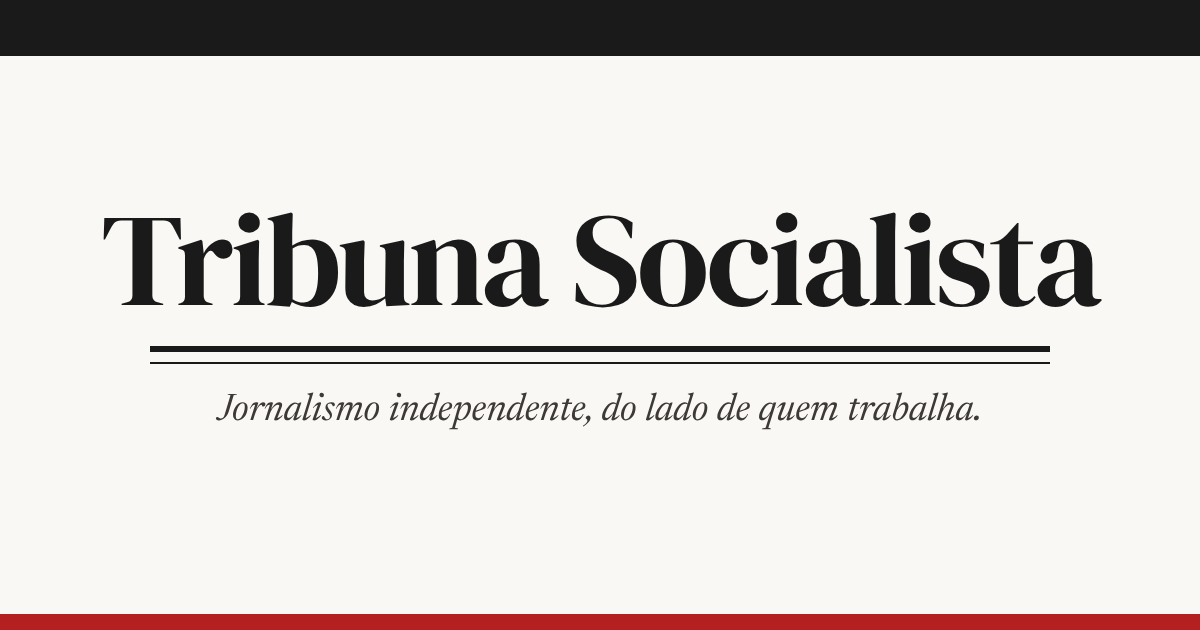
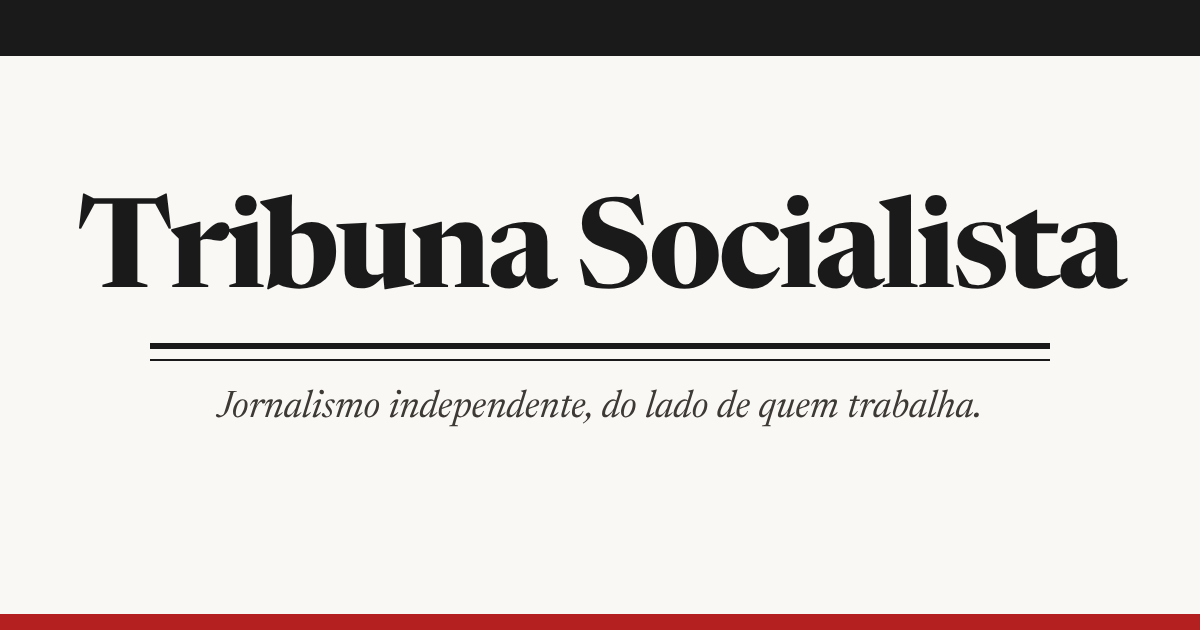
Remove o RSS, simplifica a tarja superior e troca a fonte de destaque
- Remove o feed RSS (/rss.xml) e o link no rodapé.
- Tarja superior: tira os atalhos Newsletter, Colunistas e Sobre e deixa
  só a data, centralizada (o alternador de tema continua à direita).
- Troca a DM Serif Display pela Newsreader em todo o site (logotipo,
  títulos de seção, citações, capitular e imagem de compartilhamento).
  O site passa a usar só duas famílias: Newsreader e Inter Tight.

Claude-Session: https://claude.ai/code/session_01ELp6jAinh5GCZGBxmke1wb

Changed region(s): [[0.0617, 0.3016, 0.9558, 0.5127], [0.1233, 0.5429, 0.8942, 0.6937]]

diff --git a/app/layout.tsx b/app/layout.tsx
@@ -6,17 +6,9 @@ import "./globals.css";
 /*
  * Fontes servidas pelo próprio site (next/font/local), sem chamadas ao
  * Google: mais rápido e mais privado para o leitor. Licença: SIL OFL 1.1.
- *  - DM Serif Display: logotipo, manchetes de seção e citações
- *  - Newsreader (variável, com tamanho óptico): títulos e texto longo
+ *  - Newsreader (variável, com tamanho óptico): logotipo, títulos e texto longo
  *  - Inter Tight (variável): interface
  */
-const display = localFont({
-  src: "./fonts/dm-serif-display.woff2",
-  weight: "400",
-  variable: "--font-dm-serif",
-  display: "swap",
-});
-
 const serif = localFont({
   src: [
     { path: "./fonts/newsreader.woff2", weight: "200 800", style: "normal" },
@@ -38,7 +30,6 @@ export const metadata: Metadata = {
   title: { default: SITE_NAME, template: `%s | ${SITE_NAME}` },
   description: SITE_DESCRIPTION,
   applicationName: SITE_NAME,
-  alternates: { types: { "application/rss+xml": [{ url: "/rss.xml", title: SITE_NAME }] } },
   openGraph: {
     type: "website",
     locale: "pt_BR",
@@ -66,7 +57,7 @@ export default function RootLayout({ children }: Readonly<{ children: React.Reac
     <html
       lang="pt-BR"
       suppressHydrationWarning
-      className={`${display.variable} ${serif.variable} ${sans.variable}`}
+      className={`${serif.variable} ${sans.variable}`}
     >
       <head>
         <script dangerouslySetInnerHTML={{ __html: themeScript }} />

diff --git a/app/globals.css b/app/globals.css
@@ -69,7 +69,7 @@
   --color-band-rule: var(--band-rule);
   --color-band-accent: var(--band-accent);
 
-  --font-display: var(--font-dm-serif), Georgia, serif;
+  --font-display: var(--font-newsreader), Georgia, serif;
   --font-serif: var(--font-newsreader), Georgia, serif;
   --font-sans: var(--font-inter-tight), system-ui, sans-serif;
 }
@@ -209,6 +209,7 @@ textarea.input {
 .prose-tribuna.drop-cap > p:first-child::first-letter {
   float: left;
   font-family: var(--font-display);
+  font-weight: 700;
   font-size: 4.6em;
   line-height: 0.8;
   padding: 0.08em 0.12em 0 0;
@@ -267,8 +268,10 @@ textarea.input {
   border-top: 4px solid var(--rule-strong);
   border-bottom: 1px solid var(--rule-strong);
   font-family: var(--font-display);
-  font-size: 1.45em;
-  line-height: 1.2;
+  font-size: 1.4em;
+  font-weight: 500;
+  font-style: italic;
+  line-height: 1.25;
 }
 .prose-tribuna blockquote::before {
   content: "“";
@@ -361,4 +364,11 @@ textarea.input {
 /* No modo escuro, a retícula vermelha usa um vermelho mais fechado */
 .dark .halftone-3 {
   background-color: #7a1716;
+}
+
+/* Títulos de destaque (logotipo, seções, citações): Newsreader seminegrito,
+   um pouco mais justo. Fora de camadas para valer sobre font-normal. */
+.font-display {
+  font-weight: 600;
+  letter-spacing: -0.02em;
 }

diff --git a/scripts/og-image.html b/scripts/og-image.html
@@ -1,5 +1,5 @@
 <!doctype html><html lang="pt-BR"><head><meta charset="utf-8"><style>
-@font-face{font-family:D;src:url(../app/fonts/dm-serif-display.woff2)}
+@font-face{font-family:D;src:url(../app/fonts/newsreader.woff2);font-weight:200 800}
 @font-face{font-family:N;src:url(../app/fonts/newsreader-italic.woff2);font-style:italic}
 @font-face{font-family:I;src:url(../app/fonts/inter-tight.woff2)}
 html,body{margin:0}
@@ -7,6 +7,6 @@ html,body{margin:0}
 .top{position:absolute;top:0;left:0;right:0;height:56px;background:#1A1A1A}
 .bar{position:absolute;bottom:0;left:0;right:0;height:16px;background:#B3201F}
 .r{width:900px;border-top:6px solid #1A1A1A;border-bottom:2px solid #1A1A1A;height:10px}
-h1{font-family:D;font-weight:400;font-size:132px;line-height:.9;letter-spacing:-.025em;margin:0}
+h1{font-family:D;font-weight:700;font-size:124px;line-height:.9;letter-spacing:-.03em;margin:0}
 p{font-family:N;font-style:italic;font-size:38px;margin:0;color:#3D3935}
 </style></head><body><div class="c"><div class="top"></div><h1>Tribuna Socialista</h1><div class="r"></div><p>Jornalismo independente, do lado de quem trabalha.</p><div class="bar"></div></div></body></html>

diff --git a/components/site/header-shell.tsx b/components/site/header-shell.tsx
@@ -71,14 +71,9 @@ export function HeaderShell({ sections, date, variant }: { sections: S[]; date: 
 
       {/* Tarja superior */}
       <div className="bg-band text-[12px] text-band-ink">
-        <div className="wrap flex h-[34px] items-center justify-between gap-4">
-          <span className="truncate">{date}</span>
-          <nav aria-label="Atalhos" className="hidden items-center gap-5 sm:flex">
-            <a href="#newsletter" className="hover:text-band-accent">Newsletter</a>
-            <Link href="/colunistas" className="hover:text-band-accent">Colunistas</Link>
-            <Link href="/sobre" className="hover:text-band-accent">Sobre</Link>
-          </nav>
-          <ThemeToggle className="-mr-2 inline-flex size-9 items-center justify-center hover:text-band-accent" />
+        <div className="wrap relative flex h-[34px] items-center justify-center">
+          <span className="truncate px-10">{date}</span>
+          <ThemeToggle className="absolute right-2 inline-flex size-9 items-center justify-center hover:text-band-accent sm:right-4 lg:right-6" />
         </div>
       </div>
 

diff --git a/lib/data/public.ts b/lib/data/public.ts
@@ -230,19 +230,6 @@ export async function getPage(slug: string): Promise<Page | null> {
   return (data as Page) ?? null;
 }
 
-export async function getFeedArticles(limit = 30) {
-  "use cache";
-  const db = setup();
-  if (!db) return [] as (ArticleCard & { content_html: string; updated_at: string })[];
-  const { data, error } = await db
-    .from("articles")
-    .select(`${CARD_SELECT}, content_html, updated_at`)
-    .order("published_at", { ascending: false })
-    .limit(limit);
-  log("rss", error);
-  return (data ?? []) as unknown as (ArticleCard & { content_html: string; updated_at: string })[];
-}
-
 export async function getSitemapData() {
   "use cache";
   const db = setup();

diff --git a/components/site/footer.tsx b/components/site/footer.tsx
@@ -47,7 +47,6 @@ export async function SiteFooter() {
             <Link href="/expediente" className="hover:text-band-accent">Expediente</Link>
             <Link href="/contato" className="hover:text-band-accent">Contato</Link>
             <Link href="/privacidade" className="hover:text-band-accent">Política de privacidade</Link>
-            <a href="/rss.xml" className="hover:text-band-accent">RSS</a>
           </nav>
         </div>
         <div className="wrap border-t border-band-rule pt-4 pb-7 text-xs text-band-muted">

diff --git a/components/site/wordmark.tsx b/components/site/wordmark.tsx
@@ -3,7 +3,7 @@ import { SITE_NAME } from "@/lib/env";
 /** Logotipo tipográfico: "Tribuna Socialista" em serifada de alto contraste. */
 export function Wordmark({ className = "" }: { className?: string }) {
   return (
-    <span className={`font-display leading-[0.9] tracking-[-0.025em] whitespace-nowrap ${className}`}>
+    <span className={`font-display leading-[0.9] whitespace-nowrap ${className}`} style={{ fontWeight: 700, letterSpacing: "-0.03em" }}>
       {SITE_NAME}
     </span>
   );

diff --git a/README.md b/README.md
@@ -2,7 +2,7 @@
 
 Jornal digital com site público e painel administrativo para publicar textos.
 
-- **Site público**: capa, editorias, matérias, colunistas, busca, RSS, newsletter e modo escuro.
+- **Site público**: capa, editorias, matérias, colunistas, busca, newsletter e modo escuro.
 - **Painel (`/admin`)**: editor de texto com salvamento automático, imagens, agendamento e controle de quem pode fazer o quê.
 
 Guias rápidos:
@@ -39,7 +39,7 @@ Guias rápidos:
 | Testes | Vitest (regras de acesso e publicação) e Playwright (fluxo no navegador) |
 | Hospedagem | Vercel |
 
-As fontes (DM Serif Display, Newsreader e Inter Tight, licença SIL OFL) ficam no próprio projeto e são carregadas com `next/font/local`. Assim o site não faz chamadas ao Google.
+As fontes (Newsreader e Inter Tight, licença SIL OFL) ficam no próprio projeto e são carregadas com `next/font/local`. Assim o site não faz chamadas ao Google.
 
 ## 2. Estrutura de pastas
 
@@ -51,7 +51,7 @@ app/
   entrar/                 login (Google ou link por e-mail)
   auth/                   retorno do login e saída
   materia/[slug]/         endereço curto, que redireciona para /ano/mês/slug
-  rss.xml/  sitemap.ts  robots.ts  icon.svg
+  sitemap.ts  robots.ts  icon.svg
 components/
   site/                   cabeçalho, rodapé, cards, matéria, compartilhar, newsletter
   admin/                  editor de texto, barra de formatação, diálogos, avisos

diff --git a/docs/CHECKLIST-DEPLOY.md b/docs/CHECKLIST-DEPLOY.md
@@ -38,7 +38,7 @@ Marque cada item conforme for concluindo.
 - [ ] Publicar um texto de teste e conferir na capa; depois apagar
 - [ ] Agendar um texto para daqui a 10 minutos e conferir que entra no ar sozinho
 - [ ] Inscrever um e-mail na newsletter pelo rodapé e exportar o CSV em **Newsletter**
-- [ ] Conferir `/rss.xml`, `/sitemap.xml` e `/robots.txt`
+- [ ] Conferir `/sitemap.xml` e `/robots.txt`
 - [ ] Compartilhar uma matéria no WhatsApp e ver a prévia com título e imagem
 - [ ] Testar no celular: menu, modo escuro e editor
 - [ ] Apagar as 3 matérias de exemplo
